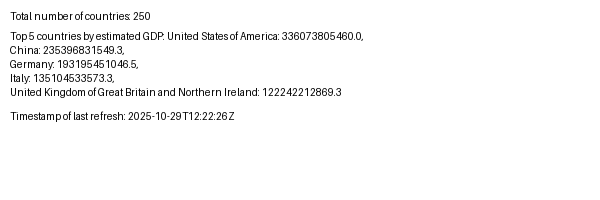
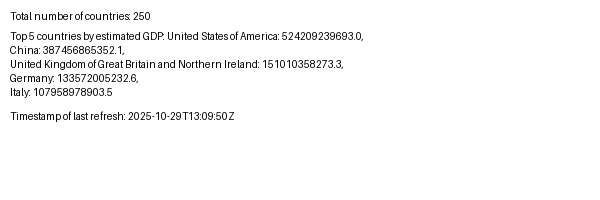
Fix database update procedure execution

diff --git a/app/main.py b/app/main.py
@@ -49,26 +49,27 @@ def RefreshCountries(db: db_dependency):
 
     try:
         # Prepares SQL for upsert (insert or update existing rows)
-        stmt = text("""
+        stmt = text(
+            """
             INSERT INTO countries 
                 (name, capital, region, population, currency_code, exchange_rate, estimated_gdp, flag_url)
             VALUES 
                 (:name, :capital, :region, :population, :currency_code, :exchange_rate, :estimated_gdp, :flag_url)
-            AS new
             ON DUPLICATE KEY UPDATE
-                capital = new.capital,
-                region = new.region,
-                population = new.population,
-                currency_code = new.currency_code,
-                exchange_rate = new.exchange_rate,
-                estimated_gdp = new.estimated_gdp,
-                flag_url = new.flag_url
-        """)
+                capital = VALUES(capital),
+                region = VALUES(region),
+                population = VALUES(population),
+                currency_code = VALUES(currency_code),
+                exchange_rate = VALUES(exchange_rate),
+                estimated_gdp = VALUES(estimated_gdp),
+                flag_url = VALUES(flag_url);
+        """
+        )
         # RETURNING id, name, capital, region, population, currency_code, exchange_rate, estimated_gdp, flag_url, last_refreshed_at;
         # RETURNING NOT SUPPORTED IN MYSQL 8.0.35 thus we have to query db again
 
         # Execute the single upsert statement with all countries
-        # result = db.execute(stmt, countries)
+        result = db.execute(stmt, countries)
         db.commit()
 
         names = [c["name"] for c in countries]
@@ -78,8 +79,8 @@ def RefreshCountries(db: db_dependency):
                      WHERE name IN :names;
                      """)
         result = db.execute(fetch_stmt, {"names": tuple(names)})
-        #returns queryset
-        #updated_rows = [dict(row._mapping) for row in result]
+        # returns queryset
+        # updated_rows = [dict(row._mapping) for row in result]
 
         # format updated_rows
         updated_rows = [serializeCountry(country) for country in result]

diff --git a/alembic/versions/eb884a686ba7_change_timezone_timestamp_setting.py b/alembic/versions/eb884a686ba7_change_timezone_timestamp_setting.py
@@ -1,0 +1,32 @@
+"""Change timezone timestamp setting
+
+Revision ID: eb884a686ba7
+Revises: c058630017ce
+Create Date: 2025-10-29 12:53:35.974126
+
+"""
+from typing import Sequence, Union
+
+from alembic import op
+import sqlalchemy as sa
+
+
+# revision identifiers, used by Alembic.
+revision: str = 'eb884a686ba7'
+down_revision: Union[str, Sequence[str], None] = 'c058630017ce'
+branch_labels: Union[str, Sequence[str], None] = None
+depends_on: Union[str, Sequence[str], None] = None
+
+
+def upgrade() -> None:
+    """Upgrade schema."""
+    # ### commands auto generated by Alembic - please adjust! ###
+    pass
+    # ### end Alembic commands ###
+
+
+def downgrade() -> None:
+    """Downgrade schema."""
+    # ### commands auto generated by Alembic - please adjust! ###
+    pass
+    # ### end Alembic commands ###

diff --git a/app/models.py b/app/models.py
@@ -19,9 +19,11 @@ class Country(Base):
     flag_url = Column(String(100), nullable=True)
     last_refreshed_at = Column(
         DateTime(timezone=True),
-        #default=func.now(),
+        # default=func.now(),
+        server_default=func.now(),  # set current time at creation
+        server_onupdate=func.now(),  # update automatically on any change
         onupdate=func.now(),
-        nullable=False,
-        server_default=text("CURRENT_TIMESTAMP"),
-        #server_onupdate=text("CURRENT_TIMESTAMP")
+        nullable=False
+        # server_onupdate=text("CURRENT_TIMESTAMP")
     )
+    print(func.now())
